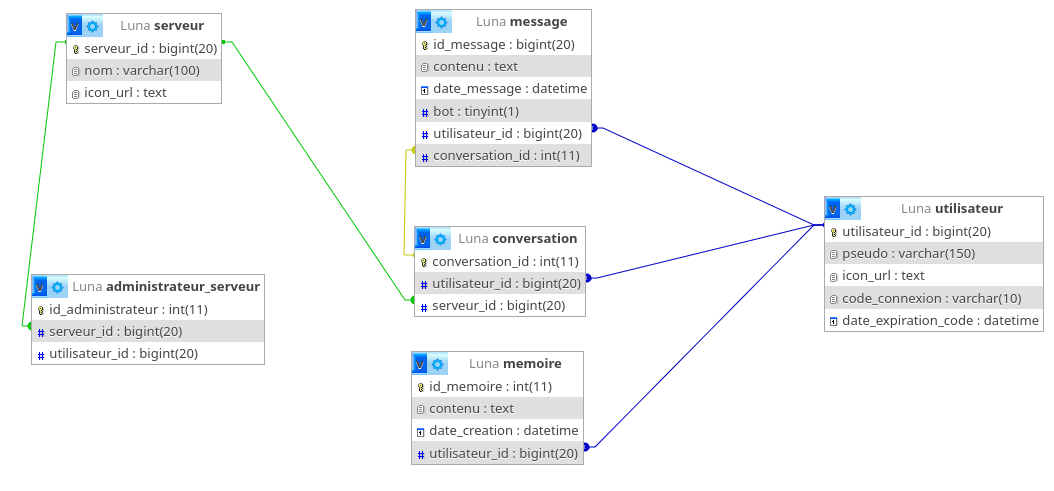
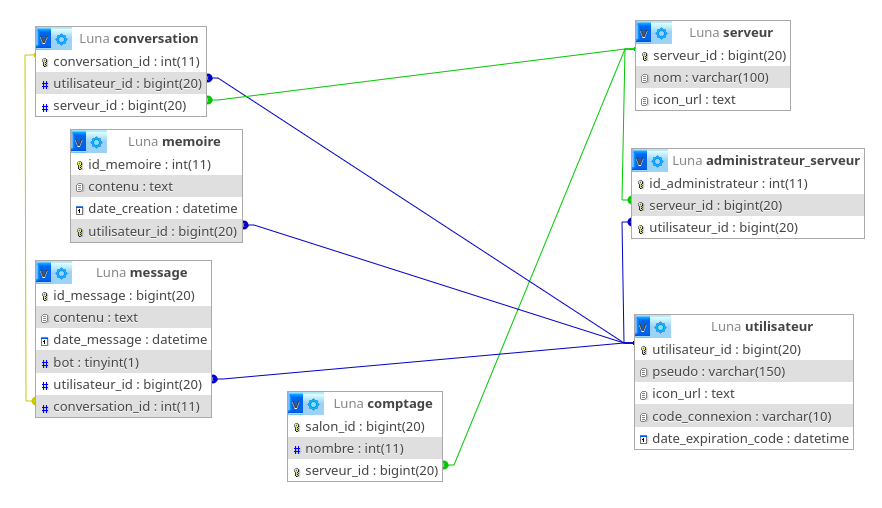
ajout de la commande /counter, modification de la BDD, ajout de la selection de salon

diff --git a/controllers/CounterController.js b/controllers/CounterController.js
@@ -1,0 +1,66 @@
+import Controller from "../core/Controller.js";
+import { MessageFlags } from "discord.js";
+
+class CounterController extends Controller {
+
+    static async handlers(interaction) {
+        if (interaction.customId === "counter_help_select") {
+            const selected = interaction.values[0];
+
+            switch (selected) {
+                case "expl_setup":
+                    const separator = { type: 14, divider: true, spacing: 2 };
+                    const header = { type: 10, content: "# Explication sur la publication du jeu" };
+                    const desc = { type: 10, content: "Ce bouton permet de choisir un salon dans lequel le jeu de comptage sera appliqué." };
+            
+                    return { flags: MessageFlags.IsComponentsV2 | MessageFlags.Ephemeral,
+                        components: [{
+                            type: 17, 
+                            accent_color: 0x4b5ba9, 
+                            components: [ header ,separator ,desc]
+                        }]
+                    };
+                case "expl_redir":
+                    // Explication Redirect
+
+                case "expl_msg":
+                    // Explication Message
+            }  
+        } else if (interaction.customId === "c_channel_select") {
+            const selectedChannel = interaction.values[0];
+            return { content: `Le jeu de comptage est appliqué dans le salon <#${selectedChannel}>.`, flags: MessageFlags.Ephemeral };
+
+        } else {
+            const action = interaction.customId;
+
+            switch (action) {
+                case "c_setup":
+                    const separator = { type: 14, divider: true, spacing: 2 };
+                    const header = { type: 10, content: "# Publication du jeu" };
+                    const channelRow = { 
+                        type: 1, components: 
+                            [ { type: 8, custom_id: "c_channel_select", channel_types: [0], placeholder: "Quel salon ?" }]
+                    };
+            
+                    return { flags: MessageFlags.IsComponentsV2 | MessageFlags.Ephemeral,
+                        components: [{
+                            type: 17, 
+                            accent_color: 0x4b5ba9, 
+                            components: [ header ,separator ,channelRow ]
+                        }]
+                    };
+                    break;
+
+                case "c_redirect":
+                    // Redirect
+                    break;
+
+                case "c_msg":
+                    // Message
+                    break;
+            }
+        }
+    }
+}
+
+export default CounterController;

diff --git a/commands/CounterCommand.js b/commands/CounterCommand.js
@@ -1,0 +1,55 @@
+import { MessageFlags } from "discord.js";
+
+class CounterCommand {
+
+    static createCounterComponents() {
+        const separator = { type: 14, divider: true, spacing: 2 };
+
+        const header = { type: 10, content: "# Configuration du Comptage\n\nBienvenue dans le panneau de configuration du jeu de comptage !" };
+        const desc = { type: 10, content: "Utilisez les boutons ci-dessous pour configurer le jeu sur votre serveur" };
+
+        const btnRow = {
+            type: 1,
+            components: [
+                { type: 2, style: 3, label: "Publier le jeu", emoji: {name: "📤"}, custom_id: "c_setup" },
+                { type: 2, style: 1, label: "Redirection", emoji: {name: "📢"}, custom_id: "c_redirect" },
+                { type: 2, style: 2, label: "Message d'erreur", emoji: {name: "📝"}, custom_id: "c_msg" }
+            ]
+        };
+
+        const helpText = { type: 10, content: "Si vous avez besoin d'explications sur les boutons, utilisez le menu ci-dessous" };
+        const helpRow = {
+            type: 1,
+            components: [{
+                type: 3, custom_id: "counter_help_select", placeholder: "Explication des boutons",
+                options: [
+                    { label: "Publier le jeu", value: "expl_setup", description: "Explication sur la publication du jeu", emoji: {name: "ℹ️"} },
+                    { label: "Redirection", value: "expl_redir", description: "Explication sur la redirection", emoji: {name: "ℹ️"} },
+                    { label: "Message d'erreur", value: "expl_msg", description: "Explication sur le message d'erreur", emoji: {name: "ℹ️"} }
+                ]
+            }]
+        };
+
+        return {
+            flags: MessageFlags.IsComponentsV2 | MessageFlags.Ephemeral,
+            components: [
+                {
+                    type: 17,
+                    accent_color: 0x4b5ba9,
+                    components: [
+                        header,
+                        separator,
+                        desc,
+                        btnRow,
+                        separator,
+                        helpText,
+                        helpRow
+                    ]
+                }
+            ]
+        };
+    }
+
+}
+
+export default CounterCommand;

diff --git a/events/interactionCreateEvent.js b/events/interactionCreateEvent.js
@@ -1,11 +1,48 @@
 import client from "../core/Client.js";
 import Router from "../core/Router.js";
 
-client.on("interactionCreate", async interaction => {
+import CounterCommand from "../commands/CounterCommand.js";
+import CounterController from "../controllers/CounterController.js";
 
-    if (!interaction.isChatInputCommand())
+import { PermissionFlagsBits } from "discord.js";
+
+client.on('interactionCreate', async (interaction) => {
+
+    if (interaction.isChatInputCommand()) {
+        try {
+            const command = interaction.commandName;
+
+            if (command === 'counter') {
+                if (!interaction.memberPermissions.has(PermissionFlagsBits.Administrator)) {
+                    return interaction.reply({
+                        content: "❌ Tu dois être administrateur pour utiliser cette commande.",
+                        flags: 64
+                    });
+                }
+                const components = CounterCommand.createCounterComponents();
+                await interaction.reply(components);
+            }
+
+        } catch (error) {
+            console.error(`Erreur commande ${interaction.commandName}:`, error);
+
+            if (!interaction.replied && !interaction.deferred) {
+                await interaction.reply({ content: "❌ Une erreur interne est survenue.", ephemeral: true });
+            }
+        }
+    }
+
+    const action = interaction.customId;
+
+    if (
+        (interaction.isButton() && ["c_setup", "c_redirect", "c_msg"].includes(action)) || 
+        (interaction.isStringSelectMenu() && action === "counter_help_select") ||
+        (interaction.isChannelSelectMenu() && action === "c_channel_select")
+    ) {
+        const components = await CounterController.handlers(interaction);
+        await interaction.reply(components);
         return;
+    }
 
     await Router.dispatch(interaction);
-
 });

diff --git a/models/Comptage.js b/models/Comptage.js
@@ -1,0 +1,31 @@
+import Model from "../core/Model.js";
+
+class Comptage extends Model {
+
+    static table = "comptage";
+
+    static async addComptage(salonId, nombre, serveurId) {
+        const db = await this.db();
+
+        await db.execute(
+            `INSERT INTO ${this.table} (salon_id, nombre, serveur_id)
+            VALUES (?, ?, ?)
+            ON DUPLICATE KEY UPDATE salon_id = VALUES(salon_id), nombre = VALUES(nombre)`,
+            [salonId, nombre, serveurId]
+        );
+    }
+
+    static async getAllByServerId(serveurId) {
+        const db = await this.db();
+
+        const [result] = await db.execute(
+            `SELECT * FROM ${this.table}
+            WHERE serveur_id = ?`,
+            [serveurId]
+        );
+
+        return result;
+    }
+}
+
+export default Comptage;

diff --git a/core/Command.js b/core/Command.js
@@ -1,0 +1,26 @@
+import "dotenv/config";
+import { REST, Routes, PermissionFlagsBits } from "discord.js";
+
+const clientId = process.env.CLIENT_ID;
+
+const commands = [
+    {
+        name: 'counter',
+        description: 'Configurer le jeu de comptage',
+        default_member_permissions: PermissionFlagsBits.Administrator.toString(),
+    }
+];
+
+const Rest = new REST({ version: '10' }).setToken(process.env.TOKEN);
+
+(async () => {
+    try {
+        console.log('Started refreshing application (/) commands.');
+
+        await Rest.put(Routes.applicationCommands(clientId), { body: commands });
+
+        console.log('Successfully reloaded application (/) commands.');
+    } catch (error) {
+        console.error(error);
+    }
+})();

diff --git a/models/Serveur.js b/models/Serveur.js
@@ -32,7 +32,7 @@ class Serveur extends Model {
 
         await db.execute(
             `INSERT INTO ${this.table} (serveur_id, nom, icon_url) VALUES (?, ?, ?)
-                ON DUPLICATE KEY UPDATE nom = VALUES(nom), icon_url = VALUES(icon_url)`,
+            ON DUPLICATE KEY UPDATE nom = VALUES(nom), icon_url = VALUES(icon_url)`,
             [id, nom, icon]
         );
     }

diff --git a/index.js b/index.js
@@ -1,6 +1,7 @@
 import "dotenv/config";
 
 import client from "./core/Client.js";
+import "./core/Command.js";
 
 import "./events/readyEvent.js";
 import "./events/interactionCreateEvent.js";

diff --git a/README.md b/README.md
@@ -82,7 +82,7 @@ Ce projet utilise une **architecture MVC modifiée** en JavaScript pour correspo
 <h2 align="center">Base de données</h2>
 
 <div align="center">
-    <img width="660" height="480" alt="image" src="https://github.com/user-attachments/assets/e1ec87fb-e361-4bf3-8151-7b6a925ff696" />
+    <img width="660" height="480" alt="image" src=".document/BDD_schema.png" />
 </div>
 
 ```sql
@@ -106,11 +106,19 @@ CREATE TABLE `administrateur_serveur` (
   `utilisateur_id` bigint(20) NOT NULL
 ) ENGINE=InnoDB DEFAULT CHARSET=utf8mb4 COLLATE=utf8mb4_general_ci;
 
+----------------------------------------------------------
+
 --
--- Déchargement des données de la table `administrateur_serveur`
+-- Structure de la table `comptage`
 --
 
--- --------------------------------------------------------
+CREATE TABLE `comptage` (
+  `salon_id` bigint(20) NOT NULL,
+  `nombre` int(11) NOT NULL,
+  `serveur_id` bigint(20) NOT NULL
+) ENGINE=InnoDB DEFAULT CHARSET=utf8mb4 COLLATE=utf8mb4_general_ci;
+
+----------------------------------------------------------
 
 --
 -- Structure de la table `conversation`
@@ -122,11 +130,7 @@ CREATE TABLE `conversation` (
   `serveur_id` bigint(20) DEFAULT NULL
 ) ENGINE=InnoDB DEFAULT CHARSET=utf8mb4 COLLATE=utf8mb4_general_ci;
 
---
--- Déchargement des données de la table `conversation`
---
-
--- --------------------------------------------------------
+----------------------------------------------------------
 
 --
 -- Structure de la table `memoire`
@@ -139,7 +143,7 @@ CREATE TABLE `memoire` (
   `utilisateur_id` bigint(20) DEFAULT NULL
 ) ENGINE=InnoDB DEFAULT CHARSET=utf8mb4 COLLATE=utf8mb4_general_ci;
 
--- --------------------------------------------------------
+----------------------------------------------------------
 
 --
 -- Structure de la table `message`
@@ -154,7 +158,7 @@ CREATE TABLE `message` (
   `conversation_id` int(11) NOT NULL
 ) ENGINE=InnoDB DEFAULT CHARSET=utf8mb4 COLLATE=utf8mb4_general_ci;
 
--- --------------------------------------------------------
+-----------------------------------------------------------
 
 --
 -- Structure de la table `serveur`
@@ -166,7 +170,8 @@ CREATE TABLE `serveur` (
   `icon_url` text DEFAULT NULL
 ) ENGINE=InnoDB DEFAULT CHARSET=utf8mb4 COLLATE=utf8mb4_general_ci;
 
--- --------------------------------------------------------
+
+----------------------------------------------------------
 
 --
 -- Structure de la table `utilisateur`
@@ -179,7 +184,6 @@ CREATE TABLE `utilisateur` (
   `code_connexion` varchar(10) DEFAULT NULL,
   `date_expiration_code` datetime DEFAULT NULL
 ) ENGINE=InnoDB DEFAULT CHARSET=utf8mb4 COLLATE=utf8mb4_general_ci;
-
 --
 -- Index pour les tables déchargées
 --
@@ -192,6 +196,13 @@ ALTER TABLE `administrateur_serveur`
   ADD UNIQUE KEY `id_administrateur` (`id_administrateur`),
   ADD UNIQUE KEY `uq_admin_serveur` (`serveur_id`,`utilisateur_id`),
   ADD KEY `idx_utilisateur_id` (`utilisateur_id`);
+
+--
+-- Index pour la table `comptage`
+--
+ALTER TABLE `comptage`
+  ADD PRIMARY KEY (`salon_id`),
+  ADD UNIQUE KEY `serveur_id_1` (`serveur_id`);
 
 --
 -- Index pour la table `conversation`
@@ -236,7 +247,7 @@ ALTER TABLE `utilisateur`
 -- AUTO_INCREMENT pour la table `administrateur_serveur`
 --
 ALTER TABLE `administrateur_serveur`
-  MODIFY `id_administrateur` int(11) NOT NULL AUTO_INCREMENT, AUTO_INCREMENT=238;
+  MODIFY `id_administrateur` int(11) NOT NULL AUTO_INCREMENT, AUTO_INCREMENT=304;
 
 --
 -- AUTO_INCREMENT pour la table `conversation`
@@ -248,7 +259,7 @@ ALTER TABLE `conversation`
 -- AUTO_INCREMENT pour la table `memoire`
 --
 ALTER TABLE `memoire`
-  MODIFY `id_memoire` int(11) NOT NULL AUTO_INCREMENT, AUTO_INCREMENT=71;
+  MODIFY `id_memoire` int(11) NOT NULL AUTO_INCREMENT, AUTO_INCREMENT=73;
 
 --
 -- Contraintes pour les tables déchargées
@@ -260,6 +271,12 @@ ALTER TABLE `memoire`
 ALTER TABLE `administrateur_serveur`
   ADD CONSTRAINT `administrateur_serveur_ibfk_1` FOREIGN KEY (`serveur_id`) REFERENCES `serveur` (`serveur_id`) ON DELETE CASCADE,
   ADD CONSTRAINT `administrateur_serveur_ibfk_2` FOREIGN KEY (`utilisateur_id`) REFERENCES `utilisateur` (`utilisateur_id`) ON DELETE CASCADE ON UPDATE CASCADE;
+
+--
+-- Contraintes pour la table `comptage`
+--
+ALTER TABLE `comptage`
+  ADD CONSTRAINT `serveur_id_2` FOREIGN KEY (`serveur_id`) REFERENCES `serveur` (`serveur_id`) ON DELETE CASCADE ON UPDATE CASCADE;
 
 --
 -- Contraintes pour la table `conversation`